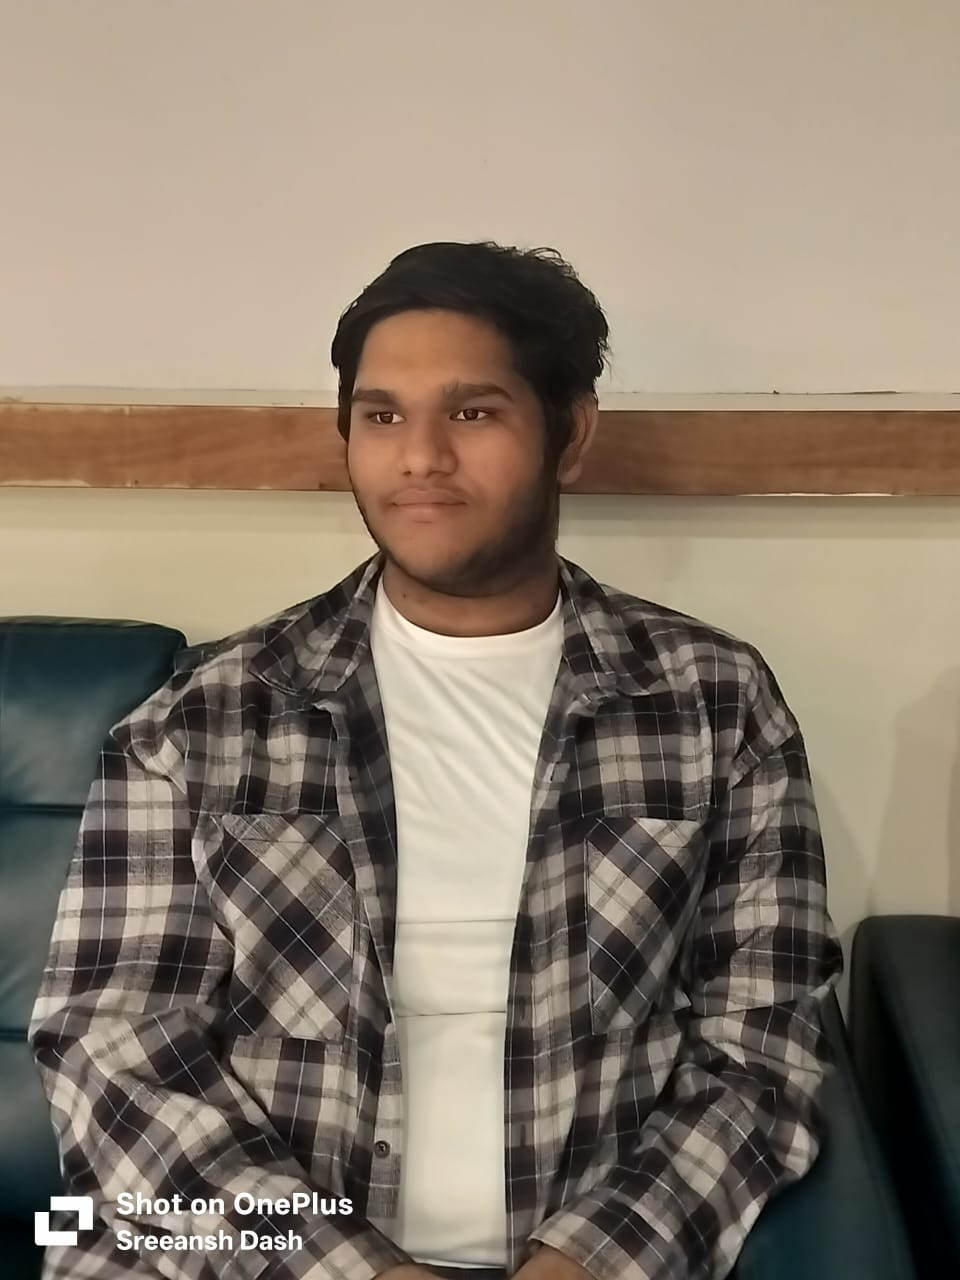
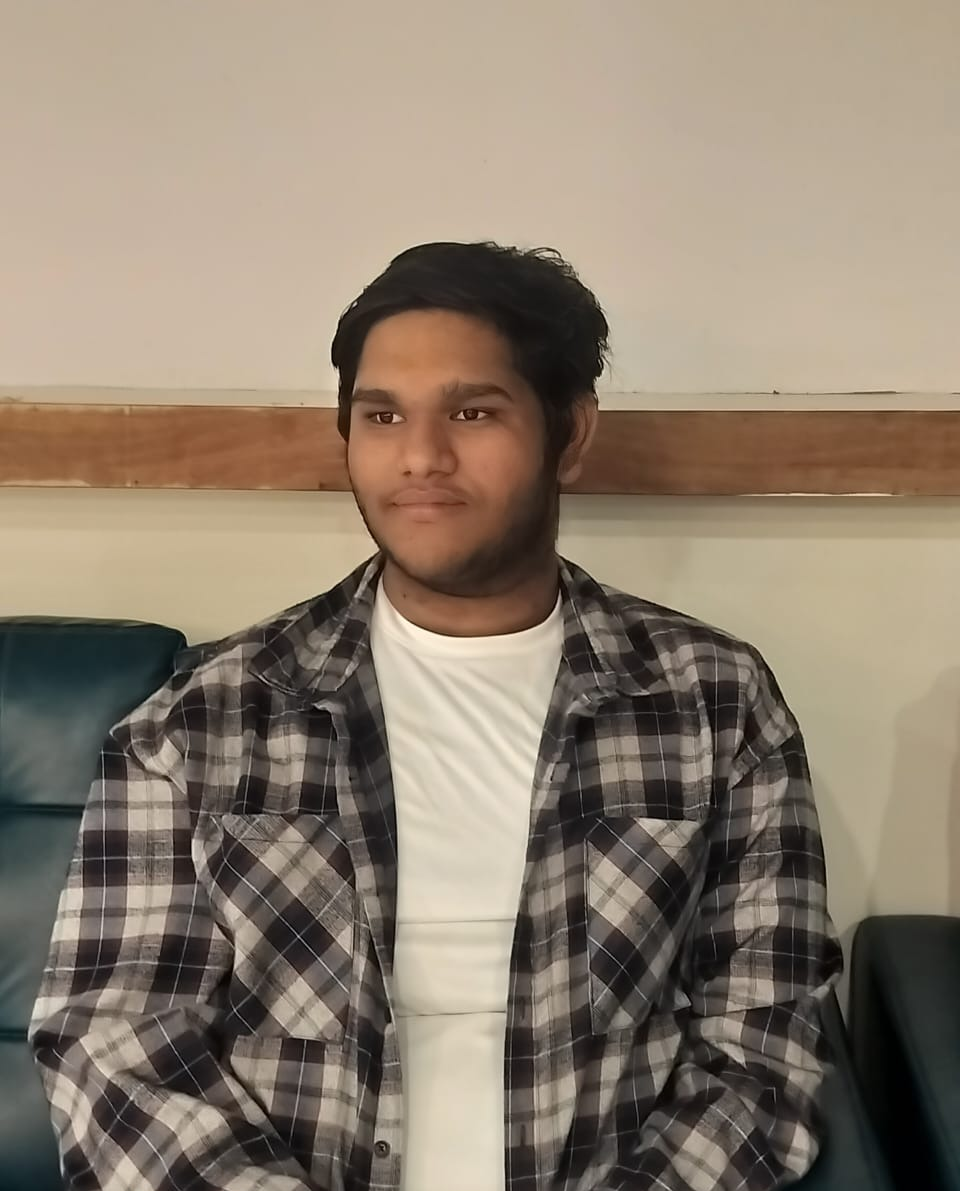
design: apply book aesthetic enhancements and layout optimizations (Round 2)
- Crop watermark from profile picture
- Rewrite bio and fix layout in CoverSpread to avoid clipping Resume / Social links
- Rewrite AboutSpread in editorial em-dash prose style
- Update stats card dark mode contrast in ResumeSpread
- Update dates for KalingaJyoti and Y-SoC
- Overhaul contact form to submit via Fetch to Netlify Forms
- Hide scrollbars globally and add custom scroll hint bottom fade

diff --git a/components/spreads/ContactSpread.tsx b/components/spreads/ContactSpread.tsx
@@ -9,7 +9,8 @@ const ContactSpread: React.FC = () => {
   const [copied, setCopied] = useState(false);
   const [formState, setFormState] = useState({ name: '', email: '', message: '' });
   const [isSending, setIsSending] = useState(false);
-  const [sent, setSent] = useState(false);
+  const [submitted, setSubmitted] = useState(false);
+  const [error, setError] = useState(false);
   const { reduceAnimations } = useAnimation();
 
   const handleCopyEmail = () => {
@@ -20,16 +21,29 @@ const ContactSpread: React.FC = () => {
     }, 2000);
   };
 
-  const handleFormSubmit = (e: React.FormEvent) => {
+  const handleFormSubmit = async (e: React.FormEvent<HTMLFormElement>) => {
     e.preventDefault();
     setIsSending(true);
-    // Simulate submission
-    setTimeout(() => {
+    setError(false);
+    const form = e.currentTarget;
+    const data = new FormData(form);
+    try {
+      const response = await fetch('/', {
+        method: 'POST',
+        headers: { 'Content-Type': 'application/x-www-form-urlencoded' },
+        body: new URLSearchParams(data as any).toString(),
+      });
+      if (response.ok) {
+        setSubmitted(true);
+        setFormState({ name: '', email: '', message: '' });
+      } else {
+        setError(true);
+      }
+    } catch {
+      setError(true);
+    } finally {
       setIsSending(false);
-      setSent(true);
-      setFormState({ name: '', email: '', message: '' });
-      setTimeout(() => setSent(false), 3000);
-    }, 1200);
+    }
   };
 
   return (
@@ -121,7 +135,27 @@ const ContactSpread: React.FC = () => {
         <div className="flex-grow flex flex-col justify-center relative mt-4 space-y-6 max-w-xl">
           
           {/* Contact Form */}
-          <form onSubmit={handleFormSubmit} className="space-y-4">
+          {submitted ? (
+            <div className="space-y-4">
+              <h3 className="font-mono text-xs font-bold uppercase tracking-widest text-gray-400 border-b border-stone-250 dark:border-stone-800 pb-2 mb-3">
+                Send a Message
+              </h3>
+              <div className="py-8 text-center space-y-3">
+                <span className="material-icons text-3xl text-green-500">check_circle_outline</span>
+                <p className="font-serif text-base text-gray-700 dark:text-gray-300 leading-relaxed">
+                  Message sent. I'll get back to you within 24 hours.
+                </p>
+              </div>
+            </div>
+          ) : (
+          <form
+            onSubmit={handleFormSubmit}
+            name="contact"
+            method="POST"
+            data-netlify="true"
+            className="space-y-4"
+          >
+            <input type="hidden" name="form-name" value="contact" />
             <h3 className="font-mono text-xs font-bold uppercase tracking-widest text-gray-400 border-b border-stone-250 dark:border-stone-800 pb-2 mb-3">
               Send a Message
             </h3>
@@ -131,7 +165,8 @@ const ContactSpread: React.FC = () => {
                 <label htmlFor="form-name" className="block text-[10px] font-mono uppercase text-gray-400 mb-1">Name</label>
                 <input 
                   id="form-name"
-                  type="text" 
+                  type="text"
+                  name="name"
                   required
                   placeholder="Your Name"
                   value={formState.name}
@@ -143,7 +178,8 @@ const ContactSpread: React.FC = () => {
                 <label htmlFor="form-email" className="block text-[10px] font-mono uppercase text-gray-400 mb-1">Email</label>
                 <input 
                   id="form-email"
-                  type="email" 
+                  type="email"
+                  name="email"
                   required
                   placeholder="your@email.com"
                   value={formState.email}
@@ -157,6 +193,7 @@ const ContactSpread: React.FC = () => {
               <label htmlFor="form-message" className="block text-[10px] font-mono uppercase text-gray-400 mb-1">Message</label>
               <textarea 
                 id="form-message"
+                name="message"
                 rows={3}
                 required
                 placeholder="What are you building?"
@@ -168,13 +205,20 @@ const ContactSpread: React.FC = () => {
 
             <button 
               type="submit"
-              disabled={isSending || sent}
-              className="w-full py-3 bg-primary dark:bg-white text-white dark:text-primary font-mono text-xs font-bold uppercase tracking-widest rounded-sm hover:opacity-90 transition-opacity flex items-center justify-center gap-1.5 cursor-pointer"
+              disabled={isSending}
+              className="w-full py-3 bg-primary dark:bg-white text-white dark:text-primary font-mono text-xs font-bold uppercase tracking-widest rounded-sm hover:opacity-90 transition-opacity flex items-center justify-center gap-1.5 cursor-pointer disabled:opacity-60"
             >
-              {isSending ? 'Sending...' : sent ? 'Sent!' : 'Send Message'}
-              <span className="material-icons text-sm">arrow_forward</span>
+              {isSending ? 'Sending...' : 'Send Message'}
+              <span className="material-icons text-sm">{isSending ? 'hourglass_top' : 'arrow_forward'}</span>
             </button>
+            {error && (
+              <p className="text-xs font-mono text-red-500 dark:text-red-400 text-center">
+                Something went wrong. Email me directly at{' '}
+                <a href="mailto:sreeansh786@gmail.com" className="underline">sreeansh786@gmail.com</a>
+              </p>
+            )}
           </form>
+          )}
 
           {/* Social Links Cards */}
           <div className="pt-2 space-y-3">

diff --git a/components/spreads/AboutSpread.tsx b/components/spreads/AboutSpread.tsx
@@ -23,7 +23,7 @@ const AboutSpread: React.FC = () => {
           <span className="font-serif text-xs italic text-gray-500 dark:text-gray-400 uppercase tracking-widest font-bold">Chapter III</span>
         </header>
 
-        <div className="flex-grow flex flex-col justify-start max-w-xl overflow-y-auto custom-scrollbar pr-2">
+        <div className="flex-grow flex flex-col justify-start max-w-xl overflow-y-auto custom-scrollbar scroll-hint-container pr-2">
           <h1 className="font-display text-5xl lg:text-6xl text-primary dark:text-white mb-8 leading-tight font-black">
             <MistakeText text="How I Think" mistakeAt={6} wrongChars="Thnk" />
           </h1>
@@ -102,7 +102,7 @@ const AboutSpread: React.FC = () => {
           </div>
         </StickyNote>
 
-        <div className="flex-grow flex flex-col mt-6 relative justify-start overflow-y-auto custom-scrollbar pr-2">
+        <div className="flex-grow flex flex-col mt-6 relative justify-start overflow-y-auto custom-scrollbar scroll-hint-container pr-2">
           <div className="flex items-start gap-8 mb-8 pr-24 md:pr-32">
             <div className="w-28 h-36 flex-shrink-0 bg-gray-200 dark:bg-gray-700 relative overflow-hidden shadow-md border-2 border-white dark:border-gray-600 transform -rotate-2">
               <img src="/about.jpeg" alt="Sreeansh working" className="w-full h-full object-cover" />
@@ -117,15 +117,14 @@ const AboutSpread: React.FC = () => {
             </div>
           </div>
 
-          {/* Passions list */}
           <div className="mb-8 space-y-3">
-            <h4 className="font-sans font-bold text-sm uppercase tracking-wider text-black dark:text-white">Things I think about more than is normal</h4>
-            <ul className="space-y-2 font-serif text-sm md:text-base text-gray-700 dark:text-gray-300 leading-relaxed pl-5 list-disc">
-              <li>Why standard blood test reference ranges ignore individual metabolic variation</li>
-              <li>How much better assistive tech could be if hardware engineers and ML people talked more</li>
-              <li>Whether the next wave of medical AI will actually reach primary care</li>
-              <li>How to make complex systems feel simple from the outside</li>
-            </ul>
+            <h4 className="font-sans font-bold text-sm uppercase tracking-wider text-black dark:text-white">The Problems That Keep Me Up</h4>
+            <div className="space-y-4 font-serif text-sm md:text-base text-gray-700 dark:text-gray-300 leading-relaxed">
+              <p>— Why blood test reference ranges treat every patient as statistically average, when biology clearly doesn't.</p>
+              <p>— Why assistive hardware and ML research so rarely share a room — and what gets missed because of that.</p>
+              <p>— Whether the next wave of medical AI will actually reach primary care, or stop at another conference paper.</p>
+              <p>— How to make systems that are genuinely complex feel completely effortless from the outside.</p>
+            </div>
           </div>
 
           {/* Skills block */}

diff --git a/components/spreads/ResumeSpread.tsx b/components/spreads/ResumeSpread.tsx
@@ -10,7 +10,7 @@ const ResumeSpread: React.FC = () => {
   return (
     <>
       {/* Left Page: Header & Education */}
-      <div className="flex-1 p-8 md:p-14 lg:p-20 flex flex-col relative border-b md:border-r md:border-b-0 border-gray-200 dark:border-gray-700/50 bg-paper-texture">
+      <div className="flex-1 p-8 md:p-14 lg:p-20 flex flex-col relative border-b md:border-r md:border-b-0 border-gray-200 dark:border-gray-700/50 bg-paper-light dark:bg-paper-dark bg-paper-texture overflow-hidden">
         <header className="flex justify-between items-start mb-8">
           <div className="flex items-center space-x-2 text-ink-light dark:text-ink-dark opacity-70">
             <span className="material-icons text-sm">menu_book</span>
@@ -125,7 +125,7 @@ const ResumeSpread: React.FC = () => {
               <div>
                 <div className="flex justify-between items-baseline mb-1">
                   <h4 className="font-sans font-bold text-sm uppercase tracking-wide text-gray-900 dark:text-white">Operations Lead — KalingaJyoti</h4>
-                  <span className="text-xs font-mono text-gray-400 whitespace-nowrap ml-4">2024 – Present</span>
+                  <span className="text-xs font-mono text-gray-400 whitespace-nowrap ml-4">August 2025 – April 2026</span>
                 </div>
                 <p className="text-xs font-serif text-gray-500 dark:text-gray-400 italic mb-2">Student Cultural Organisation, VIT Chennai</p>
                 <p className="text-sm font-serif text-gray-700 dark:text-gray-300 leading-relaxed text-justify">
@@ -136,7 +136,7 @@ const ResumeSpread: React.FC = () => {
               <div>
                 <div className="flex justify-between items-baseline mb-1">
                   <h4 className="font-sans font-bold text-sm uppercase tracking-wide text-gray-900 dark:text-white">Open-Source Contributor — Y-SoC</h4>
-                  <span className="text-xs font-mono text-gray-400 whitespace-nowrap ml-4">2024 – Present</span>
+                  <span className="text-xs font-mono text-gray-400 whitespace-nowrap ml-4">March 2026 – May 2026</span>
                 </div>
                 <p className="text-sm font-serif text-gray-700 dark:text-gray-300 leading-relaxed text-justify">
                   Participate in collaborative programming, perform code reviews, develop features, and engage in collaborative developer-focused problem-solving on community-driven open-source projects.

diff --git a/components/spreads/CoverSpread.tsx b/components/spreads/CoverSpread.tsx
@@ -24,7 +24,7 @@ const CoverSpread: React.FC<Props> = ({ onNavigate }) => {
     <>
       {/* Left Page: Hero / Intro (Personal Details) */}
       <div className="flex-1 p-8 md:p-14 lg:p-20 flex flex-col relative border-b md:border-r md:border-b-0 border-gray-200 dark:border-gray-700/50">
-        <div className="mt-4 md:mt-8 relative flex-grow flex flex-col justify-center max-w-xl">
+        <div className="mt-4 md:mt-8 relative flex-grow flex flex-col justify-start overflow-y-auto custom-scrollbar scroll-hint-container pr-2 max-w-xl">
           
           {/* Availability & Location Badges */}
           <div className="flex flex-wrap items-center gap-4 mb-8">
@@ -55,11 +55,12 @@ const CoverSpread: React.FC<Props> = ({ onNavigate }) => {
             I build systems that think — and products people actually use.
           </p>
 
-          {/* Introductory Paragraph to fill space & improve context */}
+          {/* Introductory Paragraph */}
           <p className="font-serif text-base md:text-lg text-gray-700 dark:text-gray-300 leading-relaxed mb-8">
-            I am a third-year computer science student specializing in artificial intelligence and machine learning. 
-            My work spans deep learning classifiers, offline-first mobile systems, and embedded hardware design — 
-            focused entirely on creating accessible technology with honest utility.
+            I build things that cross disciplines — ML models trained on medical data, 
+            mobile apps backed by graph databases, hardware that detects falls and calls 
+            for help. The common thread is always the same: does it actually work for 
+            the person it was built for?
           </p>
 
           {/* Academic Line */}
@@ -68,7 +69,7 @@ const CoverSpread: React.FC<Props> = ({ onNavigate }) => {
           </p>
 
           {/* CTAs */}
-          <div className="flex flex-wrap gap-5 mb-10">
+          <div className="flex flex-wrap gap-5 mb-6">
             <button
               onClick={() => onNavigate(Chapter.INDEX)}
               className="bg-primary text-white dark:bg-white dark:text-primary px-10 py-4 font-display font-bold tracking-wide text-base flex items-center gap-2.5 hover:opacity-90 transition-opacity shadow-lg cursor-pointer"

diff --git a/index.html b/index.html
@@ -60,18 +60,34 @@
       };
     </script>
     <style>
+      /* Hidden scrollbars — preserving the book aesthetic */
+      .custom-scrollbar {
+          -ms-overflow-style: none;  /* IE / Edge */
+          scrollbar-width: none;     /* Firefox */
+      }
       .custom-scrollbar::-webkit-scrollbar {
-          width: 6px;
+          display: none;             /* Chrome / Safari / Opera */
       }
-      .custom-scrollbar::-webkit-scrollbar-track {
-          background: transparent;
+
+      /* Scroll hint: soft bottom-edge fade — signals more content without a scrollbar */
+      .scroll-hint-container {
+          position: relative;
       }
-      .custom-scrollbar::-webkit-scrollbar-thumb {
-          background: #cbd5e1;
-          border-radius: 4px;
+      .scroll-hint-container::after {
+          content: '';
+          position: sticky;
+          bottom: 0;
+          left: 0;
+          right: 0;
+          height: 36px;
+          background: linear-gradient(to top, #fffdf5, transparent);
+          pointer-events: none;
+          display: block;
+          z-index: 10;
+          flex-shrink: 0;
       }
-      .dark .custom-scrollbar::-webkit-scrollbar-thumb {
-          background: #475569;
+      .dark .scroll-hint-container::after {
+          background: linear-gradient(to top, #1e293b, transparent);
       }
       .spine-shadow-overlay {
           background: linear-gradient(to right, 

diff --git a/components/spreads/IndexSpread.tsx b/components/spreads/IndexSpread.tsx
@@ -23,7 +23,7 @@ const IndexSpread: React.FC<Props> = ({ onNavigate }) => {
           </h1>
         </header>
 
-        <div className="flex-grow flex flex-col justify-start max-w-lg overflow-y-auto custom-scrollbar pr-2">
+        <div className="flex-grow flex flex-col justify-start max-w-lg overflow-y-auto custom-scrollbar scroll-hint-container pr-2">
           <div className="space-y-8">
             <h2 className="font-display text-3xl lg:text-4xl text-gray-900 dark:text-gray-100 italic font-semibold leading-snug">
               "This portfolio is a work in progress — like everything worth building."
@@ -73,7 +73,7 @@ const IndexSpread: React.FC<Props> = ({ onNavigate }) => {
           <span className="font-display italic text-gray-500 dark:text-gray-400 text-lg hidden sm:block">Table of Contents</span>
         </div>
 
-        <nav aria-label="Table of Contents" className="flex-1 space-y-4 overflow-y-auto custom-scrollbar pr-3">
+        <nav aria-label="Table of Contents" className="flex-1 space-y-4 overflow-y-auto custom-scrollbar scroll-hint-container pr-3">
           {NAVIGATION_ITEMS.map((item, idx) => {
             const isHere = item.id === Chapter.INDEX;
             return (

diff --git a/components/spreads/ProjectsSpread.tsx b/components/spreads/ProjectsSpread.tsx
@@ -137,7 +137,7 @@ const ProjectsSpread: React.FC<Props> = ({ onNavigate }) => {
           </h2>
         </header>
 
-        <div className="flex-grow pt-1 flex flex-col justify-start overflow-y-auto custom-scrollbar pr-2">
+        <div className="flex-grow pt-1 flex flex-col justify-start overflow-y-auto custom-scrollbar scroll-hint-container pr-2">
           <p className="text-lg text-ink-light dark:text-gray-300 text-justify hyphens-auto font-serif leading-relaxed">
             <span className="float-left text-6xl font-display font-bold mr-3 mt-[-10px] text-primary dark:text-white">E</span>
             <WrittenText
@@ -199,7 +199,7 @@ const ProjectsSpread: React.FC<Props> = ({ onNavigate }) => {
             <span className="text-sm font-mono text-gray-400">2024 — 2026</span>
           </div>
 
-          <ul className="space-y-10 overflow-y-auto custom-scrollbar h-full pr-4 pb-4">
+          <ul className="space-y-10 overflow-y-auto custom-scrollbar scroll-hint-container h-full pr-4 pb-4">
             {PROJECTS.map((project, idx) => (
               <li key={idx} className="group cursor-default">
                 <ProjectItem project={project} onNavigate={onNavigate} />

diff --git a/components/spreads/BloodAnalyzerSpread.tsx b/components/spreads/BloodAnalyzerSpread.tsx
@@ -23,7 +23,7 @@ const BloodAnalyzerSpread: React.FC = () => {
           </span>
         </header>
 
-        <div className="flex-grow space-y-8 max-w-xl justify-start flex flex-col overflow-y-auto custom-scrollbar pr-2">
+        <div className="flex-grow space-y-8 max-w-xl justify-start flex flex-col overflow-y-auto custom-scrollbar scroll-hint-container pr-2">
           <div>
             <h1 className="font-display text-4xl lg:text-5xl text-primary dark:text-white font-black mb-3 tracking-tight">
               <SplitText text="Blood Report Analyzer" delay={70} duration={0.4} />
@@ -93,7 +93,7 @@ const BloodAnalyzerSpread: React.FC = () => {
           }}
         />
 
-        <div className="flex-grow flex flex-col justify-start max-w-xl space-y-8 overflow-y-auto custom-scrollbar pr-2">
+        <div className="flex-grow flex flex-col justify-start max-w-xl space-y-8 overflow-y-auto custom-scrollbar scroll-hint-container pr-2">
           {/* Section: Divergence Analytics */}
           <div>
             <h3 className="font-display text-2xl font-bold text-ink-light dark:text-white mb-4 border-b-2 border-primary/10 pb-2.5">

diff --git a/components/spreads/SmartCaneSpread.tsx b/components/spreads/SmartCaneSpread.tsx
@@ -25,7 +25,7 @@ const SmartCaneSpread: React.FC<Props> = () => {
           </span>
         </header>
 
-        <div className="flex-grow space-y-8 max-w-xl justify-start flex flex-col overflow-y-auto custom-scrollbar pr-2">
+        <div className="flex-grow space-y-8 max-w-xl justify-start flex flex-col overflow-y-auto custom-scrollbar scroll-hint-container pr-2">
           <div>
             <h1 className="font-display text-4xl lg:text-5xl text-primary dark:text-white font-black mb-3 tracking-tight">
               <SplitText text="Smart Walking Stick" delay={70} duration={0.4} />
@@ -99,7 +99,7 @@ const SmartCaneSpread: React.FC<Props> = () => {
           }}
         />
 
-        <div className="flex-grow flex flex-col justify-start max-w-xl space-y-6 overflow-y-auto custom-scrollbar pr-2">
+        <div className="flex-grow flex flex-col justify-start max-w-xl space-y-6 overflow-y-auto custom-scrollbar scroll-hint-container pr-2">
           {/* Section: What Was Built */}
           <div>
             <h3 className="font-display text-2xl font-bold text-ink-light dark:text-white mb-4 border-b-2 border-primary/10 pb-2.5">

diff --git a/components/spreads/CascadeXSpread.tsx b/components/spreads/CascadeXSpread.tsx
@@ -23,7 +23,7 @@ const CascadeXSpread: React.FC = () => {
           </span>
         </header>
 
-        <div className="flex-grow space-y-8 max-w-xl justify-start flex flex-col overflow-y-auto custom-scrollbar pr-2">
+        <div className="flex-grow space-y-8 max-w-xl justify-start flex flex-col overflow-y-auto custom-scrollbar scroll-hint-container pr-2">
           <div>
             <h1 className="font-display text-4xl lg:text-5xl text-primary dark:text-white font-black mb-3 tracking-tight">
               <SplitText text="CascadeX" delay={70} duration={0.4} />
@@ -92,7 +92,7 @@ const CascadeXSpread: React.FC = () => {
           }}
         />
 
-        <div className="flex-grow flex flex-col justify-start max-w-xl space-y-6 overflow-y-auto custom-scrollbar pr-2">
+        <div className="flex-grow flex flex-col justify-start max-w-xl space-y-6 overflow-y-auto custom-scrollbar scroll-hint-container pr-2">
           {/* Section: Mobile Interaction */}
           <div>
             <h3 className="font-display text-2xl font-bold text-ink-light dark:text-white mb-4 border-b-2 border-primary/10 pb-2.5">

diff --git a/components/spreads/CaseStudySpread.tsx b/components/spreads/CaseStudySpread.tsx
@@ -13,7 +13,7 @@ const CaseStudySpread: React.FC = () => {
                     <span className="text-xs font-mono text-gray-400">CH. III</span>
                 </div>
 
-                <div className="flex-1 overflow-y-auto custom-scrollbar pr-2">
+                <div className="flex-1 overflow-y-auto custom-scrollbar scroll-hint-container pr-2">
                     <h1 className="font-display text-4xl lg:text-5xl font-bold text-gray-900 dark:text-white mb-2 ">
                         Smart Walking Stick
                     </h1>

diff --git a/components/spreads/SkillsSpread.tsx b/components/spreads/SkillsSpread.tsx
@@ -85,7 +85,7 @@ const SkillsSpread: React.FC = () => {
           </h2>
         </header>
 
-        <div className="flex-grow space-y-8 overflow-y-auto custom-scrollbar pr-2 pb-4">
+        <div className="flex-grow space-y-8 overflow-y-auto custom-scrollbar scroll-hint-container pr-2 pb-4">
           {[
             {
               group: 'Languages',
